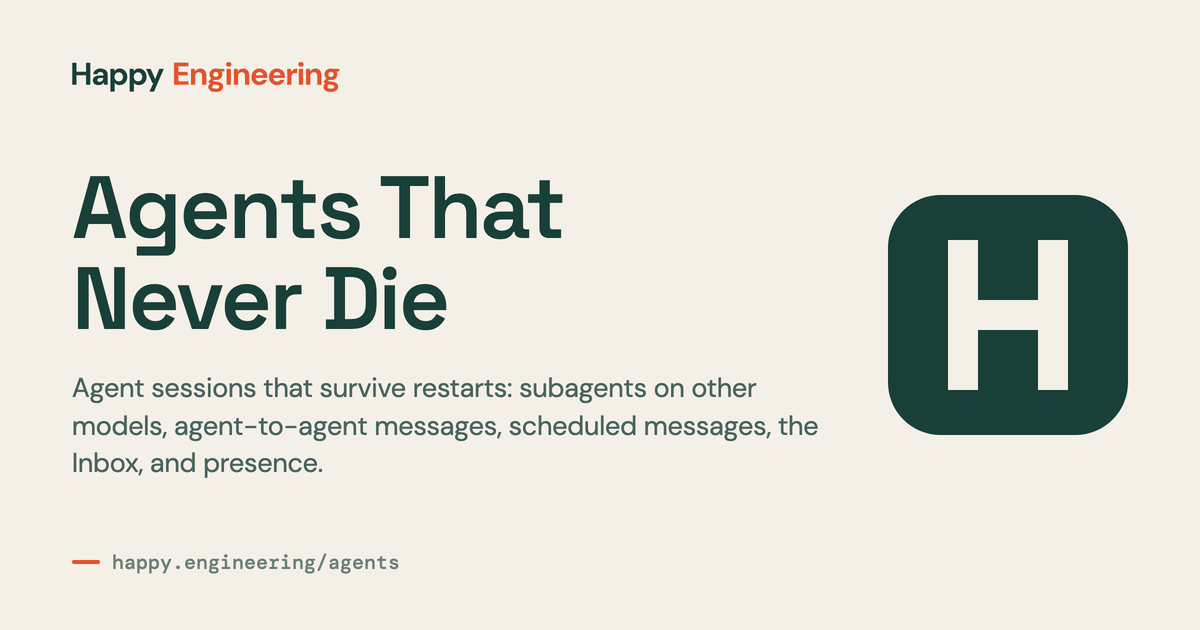
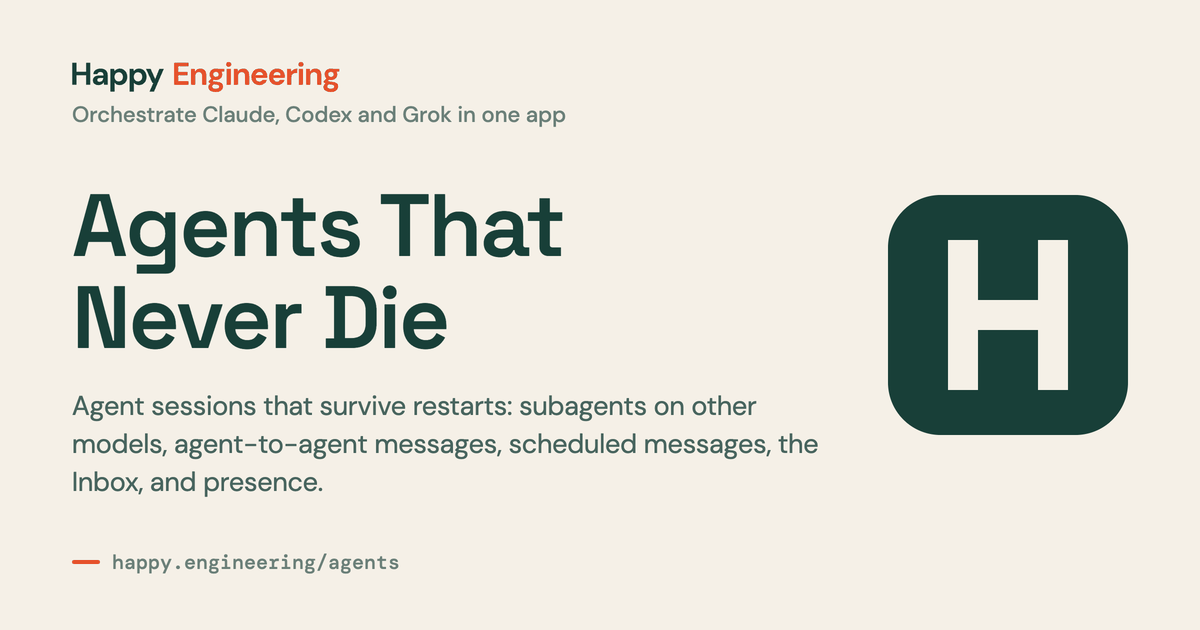
Descriptor "Orchestrate Claude, Codex and Grok in one app" under the homepage heading, the footer wordmark and every card; PostHog page analytics
- HAPPY_DESCRIPTOR in src/products.ts; homepage meta, og and twitter descriptions lead with it; DESIGN.md Positioning names it.
- notes/og/cards.py puts it under the wordmark; all 25 doc cards redrawn. Homepage card reshot as happy-harness-v25.png (v24 still read "Your Team.").
- og:image and twitter:image carry ?v=SOCIAL_IMAGE_VERSION (2) everywhere; the build checks index.html against src/siteMetadata.ts.
- GitHub star snapshot 24,083 (24k).
- src/analytics.ts: posthog-js loaded after the load event when VITE_POSTHOG_KEY is set (deploy passes secrets.HAPPY_POSTHOG_API_KEY), us.i.posthog.com, memory persistence, history_change pageviews, autocapture on, no session recording, site: happy.engineering; download_click, store_click, github_click. Not imported by the prerender. Privacy policy says so.

Changed region(s): [[0.0617, 0.2714, 0.4933, 0.573], [0.0617, 0.6032, 0.6783, 0.7841], [0.0617, 0.1508, 0.4625, 0.2111]]

diff --git a/src/analytics.ts b/src/analytics.ts
@@ -1,0 +1,85 @@
+import type { PostHog } from 'posthog-js'
+
+/**
+ * Page analytics through PostHog: the project and host Happy Desktop sends to, with
+ * `site` on every event to tell the two apart. The deploy workflow passes the key as
+ * VITE_POSTHOG_KEY; without it, as in a local build, nothing loads and nothing is sent.
+ * Browser only: src/main.tsx starts it, and the prerender never imports it.
+ */
+const POSTHOG_KEY = import.meta.env.VITE_POSTHOG_KEY
+const POSTHOG_HOST = 'https://us.i.posthog.com'
+
+type ClickEvent =
+  | ['download_click', { platform: string; arch?: string }]
+  | ['store_click', { store: 'ios' | 'android' }]
+  | ['github_click', { repository: string }]
+
+let loading: Promise<PostHog | undefined> | undefined
+
+function load(key: string) {
+  loading ??= import('posthog-js').then(
+    ({ default: posthog }) => {
+      posthog.init(key, {
+        api_host: POSTHOG_HOST,
+        // No cookies and no localStorage: a visitor is new on every page load.
+        persistence: 'memory',
+        person_profiles: 'identified_only',
+        capture_pageview: 'history_change',
+        capture_pageleave: true,
+        autocapture: true,
+        disable_session_recording: true,
+        disable_surveys: true,
+      })
+      posthog.register({ site: 'happy.engineering' })
+      return posthog
+    },
+    (error: unknown) => {
+      console.error('Could not load analytics.', error)
+      return undefined
+    },
+  )
+  return loading
+}
+
+/** The download, store, and GitHub links, wherever they are on the page. */
+export function clickEvent(link: HTMLAnchorElement): ClickEvent | null {
+  const platform = link.dataset.downloadPlatform
+  if (platform) {
+    return ['download_click', link.dataset.downloadArch ? { platform, arch: link.dataset.downloadArch } : { platform }]
+  }
+  let url: URL
+  try {
+    url = new URL(link.href)
+  } catch {
+    return null
+  }
+  if (url.hostname === 'apps.apple.com') return ['store_click', { store: 'ios' }]
+  if (url.hostname === 'play.google.com') return ['store_click', { store: 'android' }]
+  if (url.hostname === 'github.com') {
+    if (url.pathname.startsWith('/slopus/happy-desktop/releases')) return ['download_click', { platform: 'all' }]
+    const repository = url.pathname.split('/').slice(1, 3).join('/')
+    if (repository) return ['github_click', { repository }]
+  }
+  return null
+}
+
+function onClick(event: MouseEvent) {
+  if (event.button > 1 || !(event.target instanceof Element)) return
+  const link = event.target.closest('a')
+  const found = link && clickEvent(link)
+  if (!found || !POSTHOG_KEY) return
+  const [name, properties] = found
+  // Sent at once by beacon: a download or a store page may take the tab next.
+  void load(POSTHOG_KEY).then((posthog) => posthog?.capture(name, properties, { transport: 'sendBeacon' }))
+}
+
+/** Loads PostHog once the page has painted, so it never slows the first screen. */
+export function startAnalytics() {
+  const key = POSTHOG_KEY
+  if (!key) return
+  document.addEventListener('click', onClick, { capture: true })
+  document.addEventListener('auxclick', onClick, { capture: true })
+  const idle = () => ('requestIdleCallback' in window ? window.requestIdleCallback(() => load(key), { timeout: 3000 }) : setTimeout(() => load(key), 1000))
+  if (document.readyState === 'complete') idle()
+  else window.addEventListener('load', idle, { once: true })
+}

diff --git a/index.html b/index.html
@@ -6,7 +6,7 @@
 
     <title>Happy — Open-Source Harness to Orchestrate Claude Code, Codex &amp; Grok</title>
     <meta name="application-name" content="Happy" />
-    <meta name="description" content="Happy is an open-source harness for orchestrating coding agents: Claude, Codex, and Grok in one desktop app, reusing the subscriptions you already pay for." />
+    <meta name="description" content="Orchestrate Claude, Codex and Grok in one app. Happy is an open-source harness that reuses the subscriptions you already pay for." />
     <meta name="author" content="Happy Engineering" />
     <meta name="creator" content="Happy Engineering" />
     <meta name="publisher" content="Happy Engineering" />
@@ -22,17 +22,17 @@
     <meta property="og:url" content="https://happy.engineering/" />
     <meta property="og:site_name" content="Happy Engineering" />
     <meta property="og:title" content="Any Model. Your Subscription. Happy Harness." />
-    <meta property="og:description" content="Happy is an open-source harness for orchestrating coding agents: Claude, Codex, and Grok in one desktop app, reusing the subscriptions you already pay for." />
-    <meta property="og:image" content="https://happy.engineering/og/happy-harness-v24.png" />
+    <meta property="og:description" content="Orchestrate Claude, Codex and Grok in one app. Happy is an open-source harness that reuses the subscriptions you already pay for." />
+    <meta property="og:image" content="https://happy.engineering/og/happy-harness-v25.png?v=2" />
     <meta property="og:image:width" content="1200" />
     <meta property="og:image:height" content="630" />
-    <meta property="og:image:alt" content="Happy Harness model picker and paired phone, with Free and open source and 23.8k GitHub stars." />
+    <meta property="og:image:alt" content="Happy Harness model picker and paired phone, with Orchestrate Claude, Codex and Grok in one app, Free and open source, and 24k GitHub stars." />
 
     <meta name="twitter:card" content="summary_large_image" />
     <meta name="twitter:title" content="Any Model. Your Subscription. Happy Harness." />
-    <meta name="twitter:description" content="Happy is an open-source harness for orchestrating coding agents: Claude, Codex, and Grok in one desktop app, reusing the subscriptions you already pay for." />
-    <meta name="twitter:image" content="https://happy.engineering/og/happy-harness-v24.png" />
-    <meta name="twitter:image:alt" content="Happy Harness model picker and paired phone, with Free and open source and 23.8k GitHub stars." />
+    <meta name="twitter:description" content="Orchestrate Claude, Codex and Grok in one app. Happy is an open-source harness that reuses the subscriptions you already pay for." />
+    <meta name="twitter:image" content="https://happy.engineering/og/happy-harness-v25.png?v=2" />
+    <meta name="twitter:image:alt" content="Happy Harness model picker and paired phone, with Orchestrate Claude, Codex and Grok in one app, Free and open source, and 24k GitHub stars." />
 
     <link rel="icon" href="/favicon.ico?v=2" sizes="16x16 32x32 48x48" />
     <link rel="icon" href="/favicon.svg?v=2" type="image/svg+xml" />

diff --git a/src/siteMetadata.ts b/src/siteMetadata.ts
@@ -16,9 +16,20 @@ export interface PageMetadata {
  * Every page without its own card shares it, the original CLI docs included.
  */
 export const defaultSocialImage = {
-  path: '/og/happy-harness-v24.png', width: 1200, height: 630,
-  alt: 'Happy Harness model picker and paired phone, with Free and open source and 23.8k GitHub stars.',
+  path: '/og/happy-harness-v25.png', width: 1200, height: 630,
+  alt: 'Happy Harness model picker and paired phone, with Orchestrate Claude, Codex and Grok in one app, Free and open source, and 24k GitHub stars.',
 } as const
+
+/**
+ * X, Slack and iMessage cache a preview by its image URL. Bump this after redrawing the
+ * cards, so links shared before show the new ones.
+ */
+export const SOCIAL_IMAGE_VERSION = 2
+
+/** The absolute og:image and twitter:image URL of a card, with its cache-busting version. */
+export function socialImageUrl(image: Readonly<{ path: string }>) {
+  return `https://happy.engineering${image.path}?v=${SOCIAL_IMAGE_VERSION}`
+}
 
 /**
  * A desktop doc's own card: its title beside its figure, at /og/<path with dashes>.png.
@@ -38,7 +49,7 @@ export function documentSocialImage(path: string, heading: string): NonNullable<
 export const homepageMetadata: PageMetadata = {
   title: 'Happy — Open-Source Harness to Orchestrate Claude Code, Codex & Grok',
   description:
-    'Happy is an open-source harness for orchestrating coding agents: Claude, Codex, and Grok in one desktop app, reusing the subscriptions you already pay for.',
+    'Orchestrate Claude, Codex and Grok in one app. Happy is an open-source harness that reuses the subscriptions you already pay for.',
   canonicalPath: '/',
   socialTitle: 'Any Model. Your Subscription. Happy Harness.',
 }
@@ -121,7 +132,7 @@ export function applyPageMetadata(metadata: PageMetadata) {
   const socialTitle = metadata.socialTitle ?? metadata.title
   const socialDescription = metadata.socialDescription ?? metadata.description
   const socialImage = metadata.socialImage ?? defaultSocialImage
-  const socialImageUrl = new URL(socialImage.path, 'https://happy.engineering').toString()
+  const imageUrl = socialImageUrl(socialImage)
 
   document.title = metadata.title
   setMetaContent('meta[name="description"]', metadata.description)
@@ -130,11 +141,11 @@ export function applyPageMetadata(metadata: PageMetadata) {
   setMetaContent('meta[property="og:url"]', canonicalUrl)
   setMetaContent('meta[property="og:title"]', socialTitle)
   setMetaContent('meta[property="og:description"]', socialDescription)
-  setMetaContent('meta[property="og:image"]', socialImageUrl)
+  setMetaContent('meta[property="og:image"]', imageUrl)
   setMetaContent('meta[property="og:image:width"]', String(socialImage.width))
   setMetaContent('meta[property="og:image:height"]', String(socialImage.height))
   setMetaContent('meta[property="og:image:alt"]', socialImage.alt)
-  setMetaContent('meta[name="twitter:image"]', socialImageUrl)
+  setMetaContent('meta[name="twitter:image"]', imageUrl)
   setMetaContent('meta[name="twitter:image:alt"]', socialImage.alt)
   setMetaContent('meta[name="twitter:title"]', socialTitle)
   setMetaContent(

diff --git a/src/analytics.test.ts b/src/analytics.test.ts
@@ -1,0 +1,28 @@
+import { describe, expect, it } from 'vitest'
+import { clickEvent } from './analytics'
+import { APP_STORE_LINK, GOOGLE_PLAY_LINK } from './StoreButtons'
+
+function link(href: string | null, data: Record<string, string> = {}) {
+  const element = document.createElement('a')
+  if (href) element.href = href
+  Object.assign(element.dataset, data)
+  return element
+}
+
+describe('analytics click events', () => {
+  it('names downloads by platform and Mac chip, before and after the release lookup', () => {
+    expect(clickEvent(link(null, { downloadPlatform: 'macos', downloadArch: 'arm64' })))
+      .toEqual(['download_click', { platform: 'macos', arch: 'arm64' }])
+    expect(clickEvent(link('https://github.com/slopus/happy-desktop/releases/download/v0.0.90/Happy-0.0.90-x64.exe', { downloadPlatform: 'windows', downloadArch: 'x64' })))
+      .toEqual(['download_click', { platform: 'windows', arch: 'x64' }])
+    expect(clickEvent(link('https://github.com/slopus/happy-desktop/releases/latest')))
+      .toEqual(['download_click', { platform: 'all' }])
+  })
+
+  it('names the store and GitHub links', () => {
+    expect(clickEvent(link(APP_STORE_LINK))).toEqual(['store_click', { store: 'ios' }])
+    expect(clickEvent(link(GOOGLE_PLAY_LINK))).toEqual(['store_click', { store: 'android' }])
+    expect(clickEvent(link('https://github.com/slopus/happy'))).toEqual(['github_click', { repository: 'slopus/happy' }])
+    expect(clickEvent(link('/welcome/'))).toBeNull()
+  })
+})

diff --git a/src/siteMetadata.test.ts b/src/siteMetadata.test.ts
@@ -2,7 +2,7 @@ import { describe, expect, it } from 'vitest'
 import { documents } from './documents'
 import { documentHref, HAPPY, HAPPY_DESKTOP } from './products'
 import { metadataForPath } from './Router'
-import { applyPageMetadata, defaultSocialImage } from './siteMetadata'
+import { applyPageMetadata, defaultSocialImage, SOCIAL_IMAGE_VERSION } from './siteMetadata'
 
 describe('link previews', () => {
   it('gives every desktop doc its own card, named after its path', () => {
@@ -30,11 +30,12 @@ describe('link previews', () => {
     const read = (selector: string) => document.querySelector(selector)?.getAttribute('content')
 
     applyPageMetadata(metadataForPath('/multiplayer/'))
-    expect(read('meta[property="og:image"]')).toBe('https://happy.engineering/og/multiplayer.png')
-    expect(read('meta[name="twitter:image"]')).toBe('https://happy.engineering/og/multiplayer.png')
+    const card = `https://happy.engineering/og/multiplayer.png?v=${SOCIAL_IMAGE_VERSION}`
+    expect(read('meta[property="og:image"]')).toBe(card)
+    expect(read('meta[name="twitter:image"]')).toBe(card)
     expect(read('meta[property="og:url"]')).toBe('https://happy.engineering/multiplayer/')
 
     applyPageMetadata(metadataForPath('/docs/quick-start/'))
-    expect(read('meta[property="og:image"]')).toBe(`https://happy.engineering${defaultSocialImage.path}`)
+    expect(read('meta[property="og:image"]')).toBe(`https://happy.engineering${defaultSocialImage.path}?v=${SOCIAL_IMAGE_VERSION}`)
   })
 })

diff --git a/src/happy-one.css b/src/happy-one.css
@@ -10,14 +10,15 @@
 /* The first screen holds the heading, the note, the whole recording, and the primary
    download. Everything but the recording is a known height, so the stage
    (happy-one-demo.css) sizes the recording from what is left of the viewport:
-   header 60px, hero top 28px, three heading lines at 1.04, heading margin 8px, note 24px,
+   header 60px, hero top 28px, three heading lines at 1.04, heading margin 8px, tagline 27px, note 24px,
    movie gap 12px, stage padding 20px, download margin and padding 16px, badge with its
    architecture selector 70px. */
-.one-hero { --one-hero-reserved: calc(238px + 3.12 * var(--one-h1)); padding-top: 1.75rem; text-align: center; }
+.one-hero { --one-hero-reserved: calc(265px + 3.12 * var(--one-h1)); padding-top: 1.75rem; text-align: center; }
 .one-hero h1 { font-size: var(--one-h1); margin-bottom: .5rem; }
 /* Stacked: "Any Model." / "Your Subscription." / "Happy Harness." */
 .one-hero h1 > span, .one-hero h1 > em { display: block; }
-.one-hero-note { margin: 0; }
+.one-hero-tagline, .one-hero-note { margin: 0; }
+.one-hero-tagline { color: #183f38; font-size: 1.125rem; line-height: 1.5; text-wrap: balance; }
 .one-hero .one-demo { margin-top: var(--one-note-gap); }
 /* Only phones lay out this wrapper; elsewhere the copy and recording are hero items. */
 .one-hero-fold { display: contents; }

diff --git a/src/happy-one-preview.css b/src/happy-one-preview.css
@@ -8,10 +8,11 @@
 .happy-one[data-social-preview] .page-scrollbar { display: none; }
 .happy-one[data-social-preview] .one-hero { display: flex; align-items: center; gap: 24px; width: 1200px; height: 630px; margin: 0; padding: 0 0 0 48px; text-align: left; }
 .happy-one[data-social-preview] .one-hero-copy { display: flex; flex: 0 0 440px; flex-direction: column; align-items: flex-start; gap: 18px; }
-.happy-one[data-social-preview] .one-hero h1 { font-size: 62px; line-height: 1.08; margin: 0; white-space: nowrap; }
+.happy-one[data-social-preview] .one-hero h1 { font-size: 52px; line-height: 1.08; margin: 0; white-space: nowrap; }
 .happy-one[data-social-preview] .one-hero h1 > span,
 .happy-one[data-social-preview] .one-hero h1 > em { display: block; }
 .happy-one[data-social-preview] .one-hero h1 > br { display: none; }
+.happy-one[data-social-preview] .one-hero-tagline { font-size: 24px; line-height: 31px; }
 .happy-one[data-social-preview] .one-hero-note { font-size: 22px; line-height: 28px; }
 .happy-one[data-social-preview] .one-social-stars { display: flex; align-items: center; gap: 8px; margin: 0; font-size: 18px; line-height: 24px; }
 .happy-one[data-social-preview] .one-social-stars svg { width: 18px; height: 18px; }

diff --git a/src/DesktopApp.tsx b/src/DesktopApp.tsx
@@ -1,6 +1,6 @@
 import { useState } from 'react'
 import { GITHUB_HAPPY, GithubMark, SiteFooter, SiteHeader } from './SiteChrome'
-import { HAPPY_DESKTOP } from './products'
+import { HAPPY_DESCRIPTOR, HAPPY_DESKTOP } from './products'
 import { HappyOneDemo } from './HappyOneDemo'
 import { DownloadOptions, type DownloadOptionsProps } from './DownloadOptions'
 import type { MacArchitecture } from './desktopDownloads'
@@ -98,6 +98,7 @@ export default function DesktopApp() {
           <div className="one-hero-fold">
             <div className="one-hero-copy">
               <h1 id="one-heading"><span>Any Model.</span>{' '}<span>Your Subscription.</span>{' '}<em>Happy Harness{ogPreview ? '' : '.'}</em></h1>
+              <p className="one-hero-tagline">{HAPPY_DESCRIPTOR}</p>
               <p className="one-hero-note">Free and open source</p>
               {ogPreview && <a className="one-social-stars" href={GITHUB_HAPPY}>
                 <GithubMark /><span>GitHub · {HAPPY_ONE_GITHUB_STARS.compact} stars</span>

diff --git a/src/DesktopApp.test.tsx b/src/DesktopApp.test.tsx
@@ -217,8 +217,8 @@ describe('site header', () => {
       const navigation = screen.getByRole('navigation', { name: 'Primary navigation' })
 
       expect(screen.queryByRole('group', { name: 'Choose a product' })).toBeNull()
-      expect(within(navigation).getAllByRole('link').map((link) => link.textContent)).toEqual(['Docs', '23.8k'])
-      expect(within(navigation).getByRole('link', { name: 'Happy on GitHub, 23,810 stars' })).toBeTruthy()
+      expect(within(navigation).getAllByRole('link').map((link) => link.textContent)).toEqual(['Docs', '24k'])
+      expect(within(navigation).getByRole('link', { name: 'Happy on GitHub, 24,083 stars' })).toBeTruthy()
       expect(within(navigation).getByRole('link', { name: 'Docs' }).getAttribute('href')).toBe('/welcome/')
       unmount()
     }

diff --git a/src/SiteChrome.tsx b/src/SiteChrome.tsx
@@ -1,5 +1,5 @@
 import { useEffect, useState, type ReactNode } from 'react'
-import { HAPPY, HAPPY_DESKTOP, type Product } from './products'
+import { HAPPY, HAPPY_DESCRIPTOR, HAPPY_DESKTOP, type Product } from './products'
 import { HAPPY_ONE_GITHUB_STARS } from './happyOneGithubStars'
 import { PageScrollbar } from './PageScrollbar'
 import { KIRILL, STEVE } from './Team'
@@ -111,6 +111,7 @@ export function SiteFooter({ product = HAPPY, additionalLinks }: { product?: Pro
             <a className="footer-link-quiet" href={HAPPY.docsHome}>Original Happy CLI</a>
           </div>
           <Wordmark />
+          <p className="footer-descriptor">{HAPPY_DESCRIPTOR}</p>
           <p>© {currentYear} Happy Engineering</p>
         </div>
       </div>

diff --git a/src/style.css b/src/style.css
@@ -234,6 +234,7 @@ h1 em, h2 em { color: #e6522c; font-style: normal; font-weight: 600; }
 .footer-statement { font-family: 'Space Grotesk', 'DM Sans', sans-serif; font-weight: 500; font-size: 1.3rem; letter-spacing: -.01em; line-height: 1.4; margin: 0; max-width: 30ch; }
 .footer-meta { text-align: right; }
 .footer-meta p { color: #47645e; font-size: .78rem; margin: .6rem 0 0; }
+.footer-meta .footer-descriptor { color: #183f38; font-size: .9rem; margin-top: .45rem; }
 .footer-links { display: flex; font-size: .8rem; gap: 1.25rem; justify-content: flex-end; margin-bottom: 1.1rem; }
 .footer-links a { border-bottom: 1px solid transparent; }
 .footer-links a:hover { border-color: currentColor; }

diff --git a/src/DownloadOptions.tsx b/src/DownloadOptions.tsx
@@ -86,6 +86,7 @@ function DesktopDownloadLink({ platform, macArchitecture, downloads, className, 
   }
   return <a className={className} href={downloads ? desktopDownloadUrl(downloads, platform, macArchitecture) : undefined} role="link" tabIndex={0}
     aria-label={`Download Happy for ${LABELS[platform]}`} aria-busy={checking || undefined}
+    data-download-platform={platform} data-download-arch={platform === 'macos' ? macArchitecture : 'x64'}
     onClick={start} onAuxClick={start}
     onKeyDown={event => {
       if (!downloads && event.key === 'Enter') { event.preventDefault(); event.currentTarget.click() }
